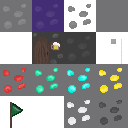
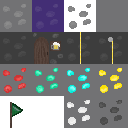
Add proper rope character and tiles

Changed region(s): [[0.75, 0.25, 1.0, 0.5], [0.0, 0.25, 0.25, 0.5], [0.625, 0.25, 0.6562, 0.5]]

diff --git a/gui/godot/assets/crop_sprites.py b/gui/godot/assets/crop_sprites.py
@@ -19,6 +19,11 @@ timelines = [
     'climb_horizontal',
     'fall',
     'pull_rope']
+if sys.argv[3]:
+    timelines = [timelines[int(sys.argv[3])]]
+y_plus = [0]*len(timelines)
+if sys.argv[3]:
+    y_plus[0] += int(sys.argv[3])
 tile_width = 30
 tile_height = 30
 
@@ -29,7 +34,8 @@ width, height = img.size
 if not os.path.exists(path):
             os.makedirs(path)
 
-for y, frame_y in enumerate(timelines):
+for y_, frame_y in enumerate(timelines):
+    y = y_ + y_plus[y_]
     for x in range(100):
         # Extract a non-empty area
         area = (x * tile_width, y * tile_height, (x + 1) * tile_width,
@@ -40,7 +46,7 @@ for y, frame_y in enumerate(timelines):
             break
 
         # Save the file
-        if not os.path.exists(path+'/'+timelines[y]):
-            os.makedirs(path+'/'+timelines[y])
+        if not os.path.exists(path+'/'+timelines[y_]):
+            os.makedirs(path+'/'+timelines[y_])
 
-        cropped.save(f'{path}/{timelines[y]}/{x}.png')
+        cropped.save(f'{path}/{timelines[y_]}/{x}.png')
